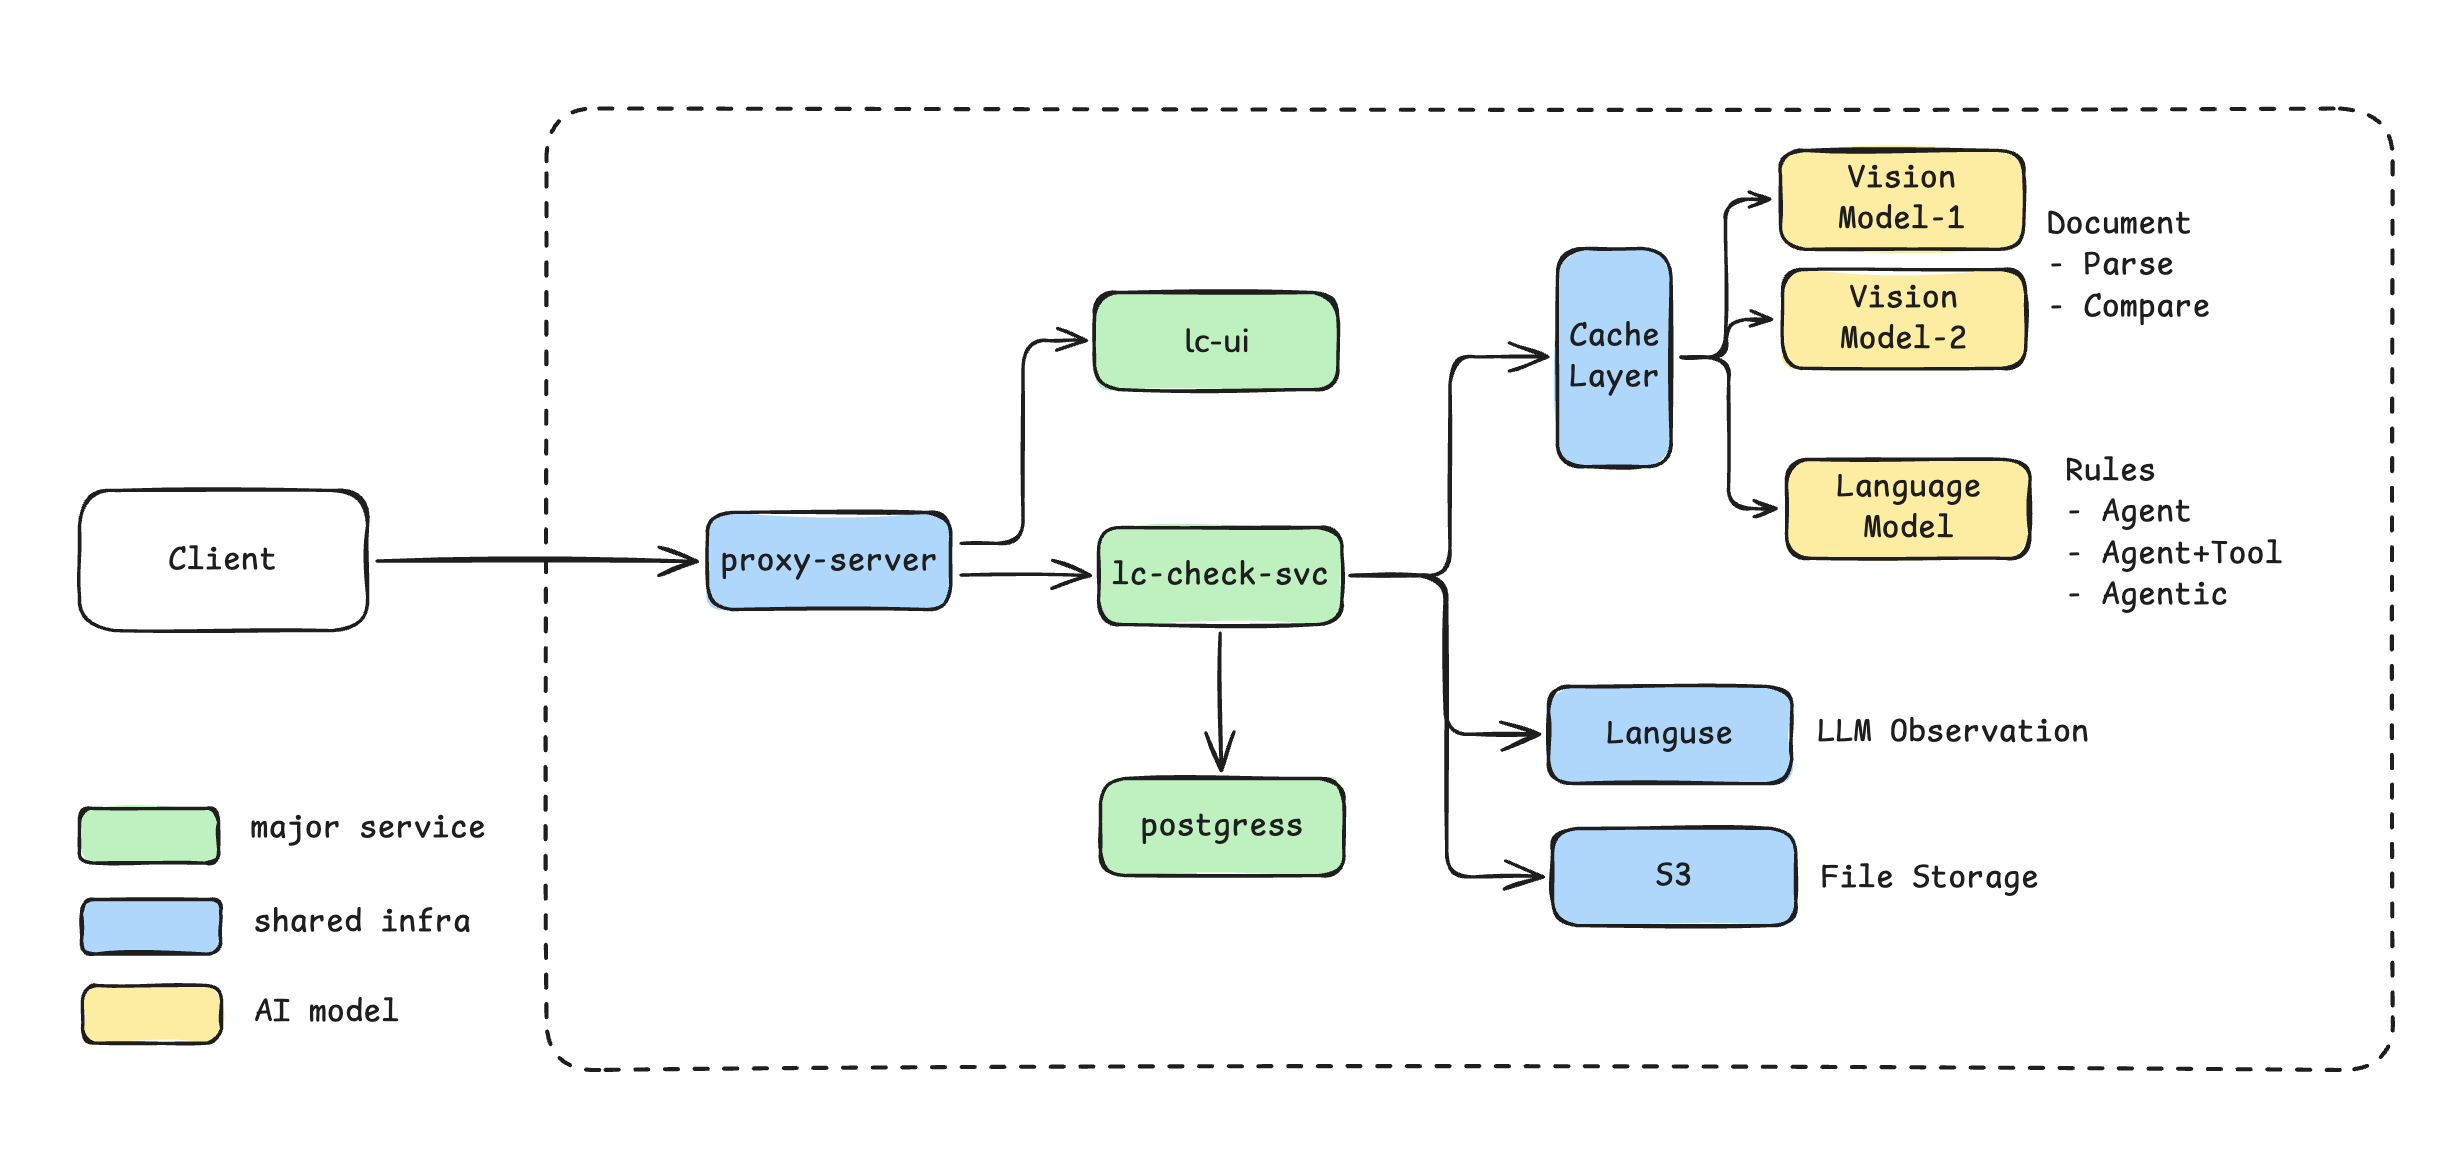
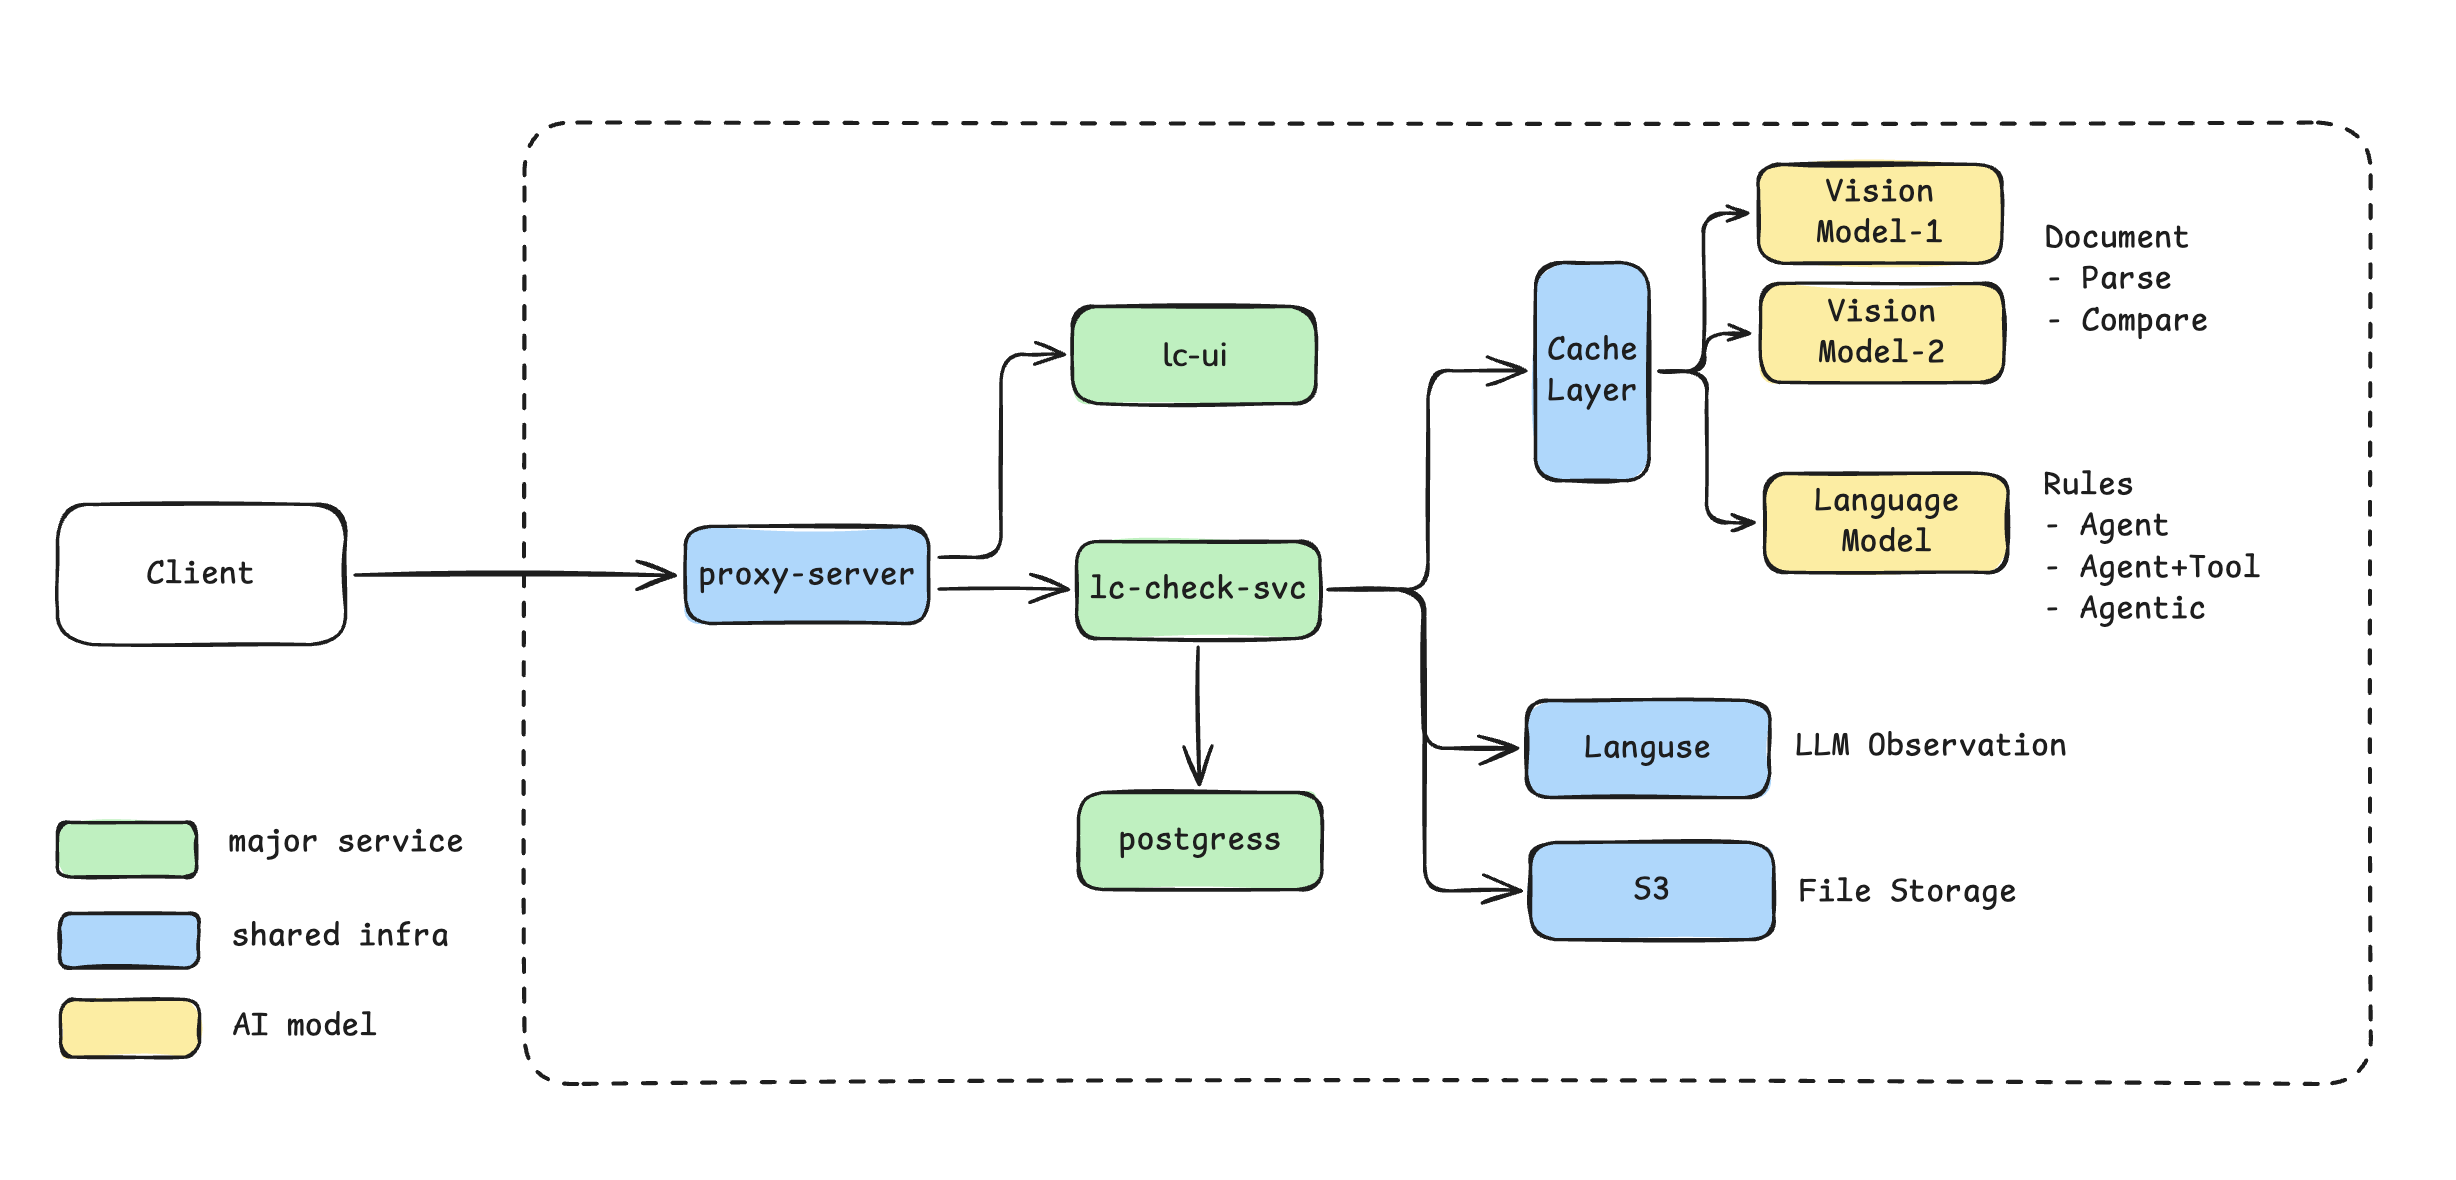
refactor: reorganize app configuration for LLM max-iterations in application.yml

diff --git a/ui/src/components/stages/examine/RuleDrawer.jsx b/ui/src/components/stages/examine/RuleDrawer.jsx
@@ -116,7 +116,7 @@ export function RuleDrawer({ rule, width = 540, session, onClose, onOverride, on
               <span>📄</span>
               <span>LC</span>
             </button>
-            {(rule.scope || []).filter(s => s !== 'LC').slice(0, 4).map(s => (
+            {(rule.scope || []).filter(s => s !== 'LC').map(s => (
               <button
                 key={s}
                 onClick={() => setDocViewer({ docType: s })}

diff --git a/lc-checker-v2-svc/src/main/java/com/lc/v2/checker/stage/examine/AgentRuleExecutor.java b/lc-checker-v2-svc/src/main/java/com/lc/v2/checker/stage/examine/AgentRuleExecutor.java
@@ -51,7 +51,7 @@ import org.springframework.stereotype.Component;
  * <table>
  *   <tr><th>checkType</th><th>Path</th></tr>
  *   <tr><td>AGENT</td>      <td>{@link #callPlain} — single ChatClient call, no tools</td></tr>
- *   <tr><td>AGENT_TOOL</td> <td>{@link #callWithTools}, hard cap 1 LLM call</td></tr>
+ *   <tr><td>AGENT_TOOL</td> <td>{@link #callWithTools}, hard cap 2 LLM calls (one batched tool round + terminal answer)</td></tr>
  *   <tr><td>AGENTIC</td>    <td>{@link #callWithTools}, hard cap = effectiveCap</td></tr>
  * </table>
  *
@@ -128,7 +128,7 @@ public class AgentRuleExecutor {
             int cap = effectiveCap(rule);
             return switch (rule.checkType()) {
                 case "AGENT" -> callPlain(rule, ctx);
-                case "AGENT_TOOL" -> callWithTools(rule, ctx, Math.min(cap, 1));
+                case "AGENT_TOOL" -> callWithTools(rule, ctx, Math.min(cap, 2));
                 case "AGENTIC" -> callWithTools(rule, ctx, cap);
                 default -> {
                     log.warn("[{}] AgentRuleExecutor invoked for unsupported checkType={} rule={}",
